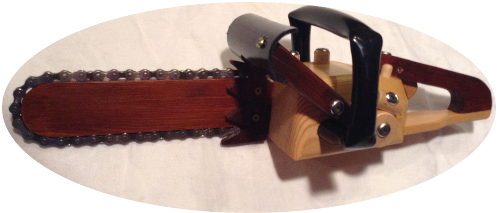
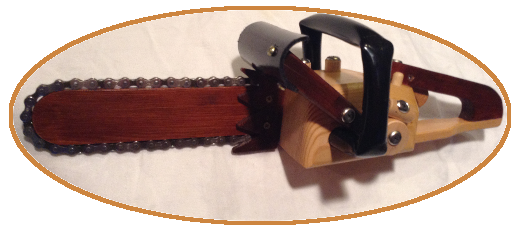
Improved CSS looking sharp added real email and phone number, only thing left is to change the paypal reciever email, and the paypal account

diff --git a/public/css/app.css b/public/css/app.css
@@ -24,12 +24,12 @@ body {
     background-image: url("/img/greenTexture1.jpg");
     background-repeat: no-repeat;
     background-attachment: fixed;
-    background-size: 100%;
+    background-size: auto 100%;
     text-align: center;
     width:100%;
     height:100%;
 }
-h1 { font-size: 5vw; }
+h1 { font-size: 5vw; border-bottom: solid saddlebrown;}
 h1, h2 { 
     margin: 0;
     padding: 20px;
@@ -41,14 +41,19 @@ h1, h2 {
     background-image: url("/img/woodgrain1OilBig.jpg"); 
     background-size: 100% auto;
     text-shadow: 1px 0 2px hsl(0,3%,55%);
-    }
+}
 
-h2 {margin:20px auto; width: 300px; border-radius: 7px; }
+h2 {
+    margin:20px auto; 
+    width: 300px; 
+    border-radius: 7px;
+    border: solid saddlebrown; 
+}
 
 
 a { color:saddlebrown; text-decoration: none; padding: 10px;}
 
-a:visited { color: hsl(0,5%,40%); }
+a:visited { color: linen; }
 
 a:hover. a:focus  { color: wheat;}
 
@@ -84,5 +89,7 @@ footer div { color:black;}
     background-color: tomato;
     display:block; margin-top:5px;
     margin-bottom: 0; 
+    font-family: serif "Roboto";
+    font-size: 16pt;
 }
 

diff --git a/public/css/main.css b/public/css/main.css
@@ -17,6 +17,7 @@
     color:rgb(56, 38, 16);
     background-color: hsla(29, 50%, 50%, .7); 
     width: 60%; 
+    border: solid saddlebrown;
     border-radius: 5px;
     padding: 10px; 
     margin: 20px auto;
@@ -97,16 +98,15 @@ img.bio {
 }
 
 #chainsaw {  
-    margin: 40px auto;
+    margin: 0 auto;
     margin-bottom: 10px;
-    
 }
 
 img.home#chainsaw {margin: 10px 10px;}
 
 #grampa { 
     border-radius:20px;
-    border: solid peru;
+    border: solid saddlebrown;
     margin: 10px auto;
     
 }

diff --git a/public/css/forms.css b/public/css/forms.css
@@ -6,7 +6,7 @@
     background-image: url("/img/woodgrain1OilBig.jpg"); 
     background-size: 100% auto;
     margin: 0 auto; 
-
+    border: solid saddlebrown;
     width: 60%;
     text-align: left;
     border-radius: 5px;

diff --git a/public/css/nav.css b/public/css/nav.css
@@ -12,6 +12,8 @@ nav {
     background-size: auto 100%;
 	width: 15%;
     border-radius: 7px;
+    border: solid saddlebrown;
+
 }
 
 nav ul {
